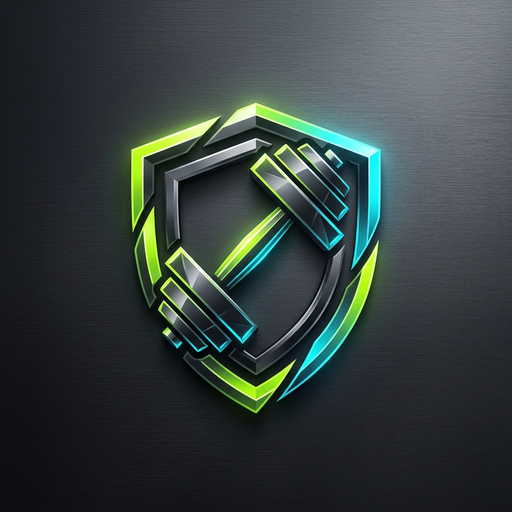
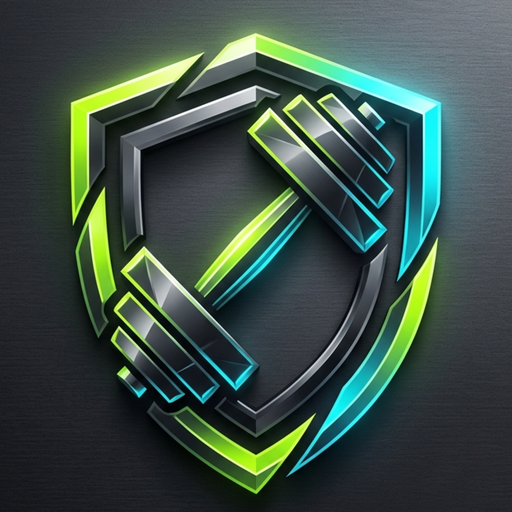
Updates

diff --git a/sw.js b/sw.js
@@ -1,1 +1,1 @@
-if(!self.define){let s,e={};const l=(l,r)=>(l=new URL(l+".js",r).href,e[l]||new Promise(e=>{if("document"in self){const s=document.createElement("script");s.src=l,s.onload=e,document.head.appendChild(s)}else s=l,importScripts(l),e()}).then(()=>{let s=e[l];if(!s)throw new Error(`Module ${l} didn’t register its module`);return s}));self.define=(r,i)=>{const n=s||("document"in self?document.currentScript.src:"")||location.href;if(e[n])return;let u={};const a=s=>l(s,n),o={module:{uri:n},exports:u,require:a};e[n]=Promise.all(r.map(s=>o[s]||a(s))).then(s=>(i(...s),u))}}define(["./workbox-b51dd497"],function(s){"use strict";self.skipWaiting(),s.clientsClaim(),s.precacheAndRoute([{url:"strava-callback.html",revision:"b7f4911196efdb06fd1a849aabb5966c"},{url:"pwa-512x512.png",revision:"c9e126ff4ce644e400e475a5045150d3"},{url:"pwa-192x192.png",revision:"75fbfb28818d90661f6adef9ba9fd2d4"},{url:"index.html",revision:"0600b67a0b743ec413c761bd9aa5c5c4"},{url:"favicon.svg",revision:"4143e1441912095341985d802c258c0e"},{url:"favicon.png",revision:"9804fe13b7a9e918eaa40c6a2163f61b"},{url:"assets/zap-CBzS8WAM.js",revision:null},{url:"assets/workout-lookup-BkY3bHxF.js",revision:null},{url:"assets/workout-final-sync-CfllP2HN.js",revision:null},{url:"assets/workbox-window.prod.es5-vqzQaGvo.js",revision:null},{url:"assets/weight-CmELR4Pw.js",revision:null},{url:"assets/web-BQL77r1p.js",revision:null},{url:"assets/warmupStretching-Bh3LIvaZ.js",revision:null},{url:"assets/useTrainingPlan-OkKUUYH-.js",revision:null},{url:"assets/useStrava-Np674Kpn.js",revision:null},{url:"assets/usePlanCycles-BrGUhGOe.js",revision:null},{url:"assets/useFirebaseWorkouts-B-jergIR.js",revision:null},{url:"assets/trending-up-BFhXC6Ct.js",revision:null},{url:"assets/trending-down-D0_g2Nqp.js",revision:null},{url:"assets/trash-2-DwapXAKY.js",revision:null},{url:"assets/timer-BGGleCQW.js",revision:null},{url:"assets/textarea-BcIsuim6.js",revision:null},{url:"assets/tabs-Cc3KUnSr.js",revision:null},{url:"assets/switch-DKux-9QM.js",revision:null},{url:"assets/summary-utils-CHDzWjGM.js",revision:null},{url:"assets/sparkles-CGoDnvJp.js",revision:null},{url:"assets/sliders-horizontal-yziMRrjK.js",revision:null},{url:"assets/shield-check-DMbfVw4p.js",revision:null},{url:"assets/send-Qd1YIg8-.js",revision:null},{url:"assets/select-CnS8QhBl.js",revision:null},{url:"assets/search-zGBfGkQD.js",revision:null},{url:"assets/route-SBPnU0GV.js",revision:null},{url:"assets/rotate-ccw-asjLw5qb.js",revision:null},{url:"assets/replace-BmUt8GoN.js",revision:null},{url:"assets/refresh-ccw-DqPZDzWu.js",revision:null},{url:"assets/recharts-BK9yJGVI.js",revision:null},{url:"assets/plus-C3_j4J3r.js",revision:null},{url:"assets/play-C586XYeO.js",revision:null},{url:"assets/plan-i18n-CaOSEbXq.js",revision:null},{url:"assets/pencil-j0w2DDn6.js",revision:null},{url:"assets/minus-CxNXdTfW.js",revision:null},{url:"assets/mail-CP3kA_9G.js",revision:null},{url:"assets/lock-C88cQDti.js",revision:null},{url:"assets/link-2-BSAA9OqL.js",revision:null},{url:"assets/index-CK-QRCWd.js",revision:null},{url:"assets/index-BynC08sX.css",revision:null},{url:"assets/index-BNLLLZEU.js",revision:null},{url:"assets/index-BEGRkCmk.js",revision:null},{url:"assets/flame-yb5ZOLIt.js",revision:null},{url:"assets/firebase-Dq0UzBP8.js",revision:null},{url:"assets/exercise-utils-BKn_N4-D.js",revision:null},{url:"assets/exercise-progression-CTaYAwHb.js",revision:null},{url:"assets/exercise-media-ULoOjZzq.js",revision:null},{url:"assets/exercise-i18n-ChFFevSF.js",revision:null},{url:"assets/dumbbell-DWE10zef.js",revision:null},{url:"assets/download-CsorOHsf.js",revision:null},{url:"assets/dialog-Dmha3cXH.js",revision:null},{url:"assets/d3-vendor-Bhh-Tn87.js",revision:null},{url:"assets/cycle-actions-Bq7ybS49.js",revision:null},{url:"assets/copy-_deGOfG1.js",revision:null},{url:"assets/clock-iTe5P_W8.js",revision:null},{url:"assets/circle-check-big-Bql4DAQd.js",revision:null},{url:"assets/chevron-up-BTpUhlxg.js",revision:null},{url:"assets/chevron-down-BBJ9hO0J.js",revision:null},{url:"assets/chart-config-BPlaYZOp.js",revision:null},{url:"assets/badge-Cq1C5Mth.js",revision:null},{url:"assets/arrow-right-left-BV3GRUrs.js",revision:null},{url:"assets/activity-CkpIySON.js",revision:null},{url:"assets/WorkoutHistory-DQv08UQh.js",revision:null},{url:"assets/WorkoutDay-L9yNpcfM.js",revision:null},{url:"assets/UserPlanEditor-Bglz0BKn.js",revision:null},{url:"assets/TrainingPlan-Z-oUTWGD.js",revision:null},{url:"assets/TrainingDayCard-B4WjEsjN.js",revision:null},{url:"assets/StravaCallback-DpDlOvAu.js",revision:null},{url:"assets/StravaActivityCard-D-UMe4na.js",revision:null},{url:"assets/Settings-BI10Ytpr.js",revision:null},{url:"assets/Profile-BsRhG9rv.js",revision:null},{url:"assets/PlanWizard-DJmJFoDz.js",revision:null},{url:"assets/PlanEditor-FXHx4hsH.js",revision:null},{url:"assets/Onboarding-B7_-WRuj.js",revision:null},{url:"assets/NotFound-B4baHE7J.js",revision:null},{url:"assets/NewPlan-CejVQMYL.js",revision:null},{url:"assets/Measurements-C0IhVZik.js",revision:null},{url:"assets/Login-BOWKLN9A.js",revision:null},{url:"assets/ExerciseLibrary-CUY7_I6D.js",revision:null},{url:"assets/ExerciseDetail-CQF9bsEb.js",revision:null},{url:"assets/DayPlan-BN8UAAJL.js",revision:null},{url:"assets/DataManagement-COyvURM5.js",revision:null},{url:"assets/Dashboard-BmWwsPuF.js",revision:null},{url:"assets/Cycles-SxLZDjgo.js",revision:null},{url:"assets/Analytics-Q8k3v-PB.js",revision:null},{url:"assets/AdminDashboard-DIPr8dwr.js",revision:null},{url:"assets/Achievements-D7rOZBqp.js",revision:null},{url:"favicon.png",revision:"9804fe13b7a9e918eaa40c6a2163f61b"},{url:"pwa-192x192.png",revision:"75fbfb28818d90661f6adef9ba9fd2d4"},{url:"pwa-512x512.png",revision:"c9e126ff4ce644e400e475a5045150d3"},{url:"manifest.webmanifest",revision:"8869801afd0f608eb8721e0b3f4063ee"}],{}),s.cleanupOutdatedCaches(),s.registerRoute(new s.NavigationRoute(s.createHandlerBoundToURL("index.html"),{denylist:[/strava-callback\.html/]})),s.registerRoute(/^https:\/\/firestore\.googleapis\.com\/.*/i,new s.NetworkFirst({cacheName:"firestore-cache",plugins:[new s.ExpirationPlugin({maxEntries:50,maxAgeSeconds:86400})]}),"GET")});
+if(!self.define){let s,e={};const l=(l,r)=>(l=new URL(l+".js",r).href,e[l]||new Promise(e=>{if("document"in self){const s=document.createElement("script");s.src=l,s.onload=e,document.head.appendChild(s)}else s=l,importScripts(l),e()}).then(()=>{let s=e[l];if(!s)throw new Error(`Module ${l} didn’t register its module`);return s}));self.define=(r,i)=>{const n=s||("document"in self?document.currentScript.src:"")||location.href;if(e[n])return;let u={};const a=s=>l(s,n),o={module:{uri:n},exports:u,require:a};e[n]=Promise.all(r.map(s=>o[s]||a(s))).then(s=>(i(...s),u))}}define(["./workbox-b51dd497"],function(s){"use strict";self.skipWaiting(),s.clientsClaim(),s.precacheAndRoute([{url:"strava-callback.html",revision:"b7f4911196efdb06fd1a849aabb5966c"},{url:"pwa-512x512.png",revision:"94c0b73d8f46fcc912dbf42fefe86166"},{url:"pwa-192x192.png",revision:"e1709334e591b6661c7f7cd5d2ff2571"},{url:"index.html",revision:"0600b67a0b743ec413c761bd9aa5c5c4"},{url:"favicon.svg",revision:"4143e1441912095341985d802c258c0e"},{url:"favicon.png",revision:"77b393fa19c53a874ece644d26949f6a"},{url:"assets/zap-CBzS8WAM.js",revision:null},{url:"assets/workout-lookup-BkY3bHxF.js",revision:null},{url:"assets/workout-final-sync-CfllP2HN.js",revision:null},{url:"assets/workbox-window.prod.es5-vqzQaGvo.js",revision:null},{url:"assets/weight-CmELR4Pw.js",revision:null},{url:"assets/web-BQL77r1p.js",revision:null},{url:"assets/warmupStretching-Bh3LIvaZ.js",revision:null},{url:"assets/useTrainingPlan-OkKUUYH-.js",revision:null},{url:"assets/useStrava-Np674Kpn.js",revision:null},{url:"assets/usePlanCycles-BrGUhGOe.js",revision:null},{url:"assets/useFirebaseWorkouts-B-jergIR.js",revision:null},{url:"assets/trending-up-BFhXC6Ct.js",revision:null},{url:"assets/trending-down-D0_g2Nqp.js",revision:null},{url:"assets/trash-2-DwapXAKY.js",revision:null},{url:"assets/timer-BGGleCQW.js",revision:null},{url:"assets/textarea-BcIsuim6.js",revision:null},{url:"assets/tabs-Cc3KUnSr.js",revision:null},{url:"assets/switch-DKux-9QM.js",revision:null},{url:"assets/summary-utils-CHDzWjGM.js",revision:null},{url:"assets/sparkles-CGoDnvJp.js",revision:null},{url:"assets/sliders-horizontal-yziMRrjK.js",revision:null},{url:"assets/shield-check-DMbfVw4p.js",revision:null},{url:"assets/send-Qd1YIg8-.js",revision:null},{url:"assets/select-CnS8QhBl.js",revision:null},{url:"assets/search-zGBfGkQD.js",revision:null},{url:"assets/route-SBPnU0GV.js",revision:null},{url:"assets/rotate-ccw-asjLw5qb.js",revision:null},{url:"assets/replace-BmUt8GoN.js",revision:null},{url:"assets/refresh-ccw-DqPZDzWu.js",revision:null},{url:"assets/recharts-BK9yJGVI.js",revision:null},{url:"assets/plus-C3_j4J3r.js",revision:null},{url:"assets/play-C586XYeO.js",revision:null},{url:"assets/plan-i18n-CaOSEbXq.js",revision:null},{url:"assets/pencil-j0w2DDn6.js",revision:null},{url:"assets/minus-CxNXdTfW.js",revision:null},{url:"assets/mail-CP3kA_9G.js",revision:null},{url:"assets/lock-C88cQDti.js",revision:null},{url:"assets/link-2-BSAA9OqL.js",revision:null},{url:"assets/index-CK-QRCWd.js",revision:null},{url:"assets/index-BynC08sX.css",revision:null},{url:"assets/index-BNLLLZEU.js",revision:null},{url:"assets/index-BEGRkCmk.js",revision:null},{url:"assets/flame-yb5ZOLIt.js",revision:null},{url:"assets/firebase-Dq0UzBP8.js",revision:null},{url:"assets/exercise-utils-BKn_N4-D.js",revision:null},{url:"assets/exercise-progression-CTaYAwHb.js",revision:null},{url:"assets/exercise-media-ULoOjZzq.js",revision:null},{url:"assets/exercise-i18n-ChFFevSF.js",revision:null},{url:"assets/dumbbell-DWE10zef.js",revision:null},{url:"assets/download-CsorOHsf.js",revision:null},{url:"assets/dialog-Dmha3cXH.js",revision:null},{url:"assets/d3-vendor-Bhh-Tn87.js",revision:null},{url:"assets/cycle-actions-Bq7ybS49.js",revision:null},{url:"assets/copy-_deGOfG1.js",revision:null},{url:"assets/clock-iTe5P_W8.js",revision:null},{url:"assets/circle-check-big-Bql4DAQd.js",revision:null},{url:"assets/chevron-up-BTpUhlxg.js",revision:null},{url:"assets/chevron-down-BBJ9hO0J.js",revision:null},{url:"assets/chart-config-BPlaYZOp.js",revision:null},{url:"assets/badge-Cq1C5Mth.js",revision:null},{url:"assets/arrow-right-left-BV3GRUrs.js",revision:null},{url:"assets/activity-CkpIySON.js",revision:null},{url:"assets/WorkoutHistory-DQv08UQh.js",revision:null},{url:"assets/WorkoutDay-L9yNpcfM.js",revision:null},{url:"assets/UserPlanEditor-Bglz0BKn.js",revision:null},{url:"assets/TrainingPlan-Z-oUTWGD.js",revision:null},{url:"assets/TrainingDayCard-B4WjEsjN.js",revision:null},{url:"assets/StravaCallback-DpDlOvAu.js",revision:null},{url:"assets/StravaActivityCard-D-UMe4na.js",revision:null},{url:"assets/Settings-BI10Ytpr.js",revision:null},{url:"assets/Profile-BsRhG9rv.js",revision:null},{url:"assets/PlanWizard-DJmJFoDz.js",revision:null},{url:"assets/PlanEditor-FXHx4hsH.js",revision:null},{url:"assets/Onboarding-B7_-WRuj.js",revision:null},{url:"assets/NotFound-B4baHE7J.js",revision:null},{url:"assets/NewPlan-CejVQMYL.js",revision:null},{url:"assets/Measurements-C0IhVZik.js",revision:null},{url:"assets/Login-BOWKLN9A.js",revision:null},{url:"assets/ExerciseLibrary-CUY7_I6D.js",revision:null},{url:"assets/ExerciseDetail-CQF9bsEb.js",revision:null},{url:"assets/DayPlan-BN8UAAJL.js",revision:null},{url:"assets/DataManagement-COyvURM5.js",revision:null},{url:"assets/Dashboard-BmWwsPuF.js",revision:null},{url:"assets/Cycles-SxLZDjgo.js",revision:null},{url:"assets/Analytics-Q8k3v-PB.js",revision:null},{url:"assets/AdminDashboard-DIPr8dwr.js",revision:null},{url:"assets/Achievements-D7rOZBqp.js",revision:null},{url:"favicon.png",revision:"77b393fa19c53a874ece644d26949f6a"},{url:"pwa-192x192.png",revision:"e1709334e591b6661c7f7cd5d2ff2571"},{url:"pwa-512x512.png",revision:"94c0b73d8f46fcc912dbf42fefe86166"},{url:"manifest.webmanifest",revision:"8869801afd0f608eb8721e0b3f4063ee"}],{}),s.cleanupOutdatedCaches(),s.registerRoute(new s.NavigationRoute(s.createHandlerBoundToURL("index.html"),{denylist:[/strava-callback\.html/]})),s.registerRoute(/^https:\/\/firestore\.googleapis\.com\/.*/i,new s.NetworkFirst({cacheName:"firestore-cache",plugins:[new s.ExpirationPlugin({maxEntries:50,maxAgeSeconds:86400})]}),"GET")});